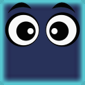
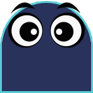
Edit snake head image & Add snake tail

diff --git a/snake_game/simplified_snake_game.py b/snake_game/simplified_snake_game.py
@@ -109,6 +109,19 @@ class Snake(object):
                     rotate = 90
                 snake_head_image = pygame.transform.rotate(snake_head_image, rotate)
                 surface.blit(snake_head_image, (self.positions[i][0], self.positions[i][1]))
+            elif i == len(self.positions):
+                snake_head_image = pygame.image.load('./imgs/snake_tail.png')
+                snake_head_image = pygame.transform.scale(snake_head_image, (GRID_SIZE, GRID_SIZE))
+                if self.direction == UP:
+                    rotate = 180
+                elif self.direction == DOWN:
+                    rotate = 0
+                elif self.direction == LEFT:
+                    rotate = 270
+                elif self.direction == RIGHT:
+                    rotate = 90
+                snake_head_image = pygame.transform.rotate(snake_head_image, rotate)
+                surface.blit(snake_head_image, (self.positions[i][0], self.positions[i][1]))
             else:
                 r = pygame.Rect((self.positions[i][0], self.positions[i][1]), (GRID_SIZE, GRID_SIZE))
                 pygame.draw.rect(surface, self.color, r)
